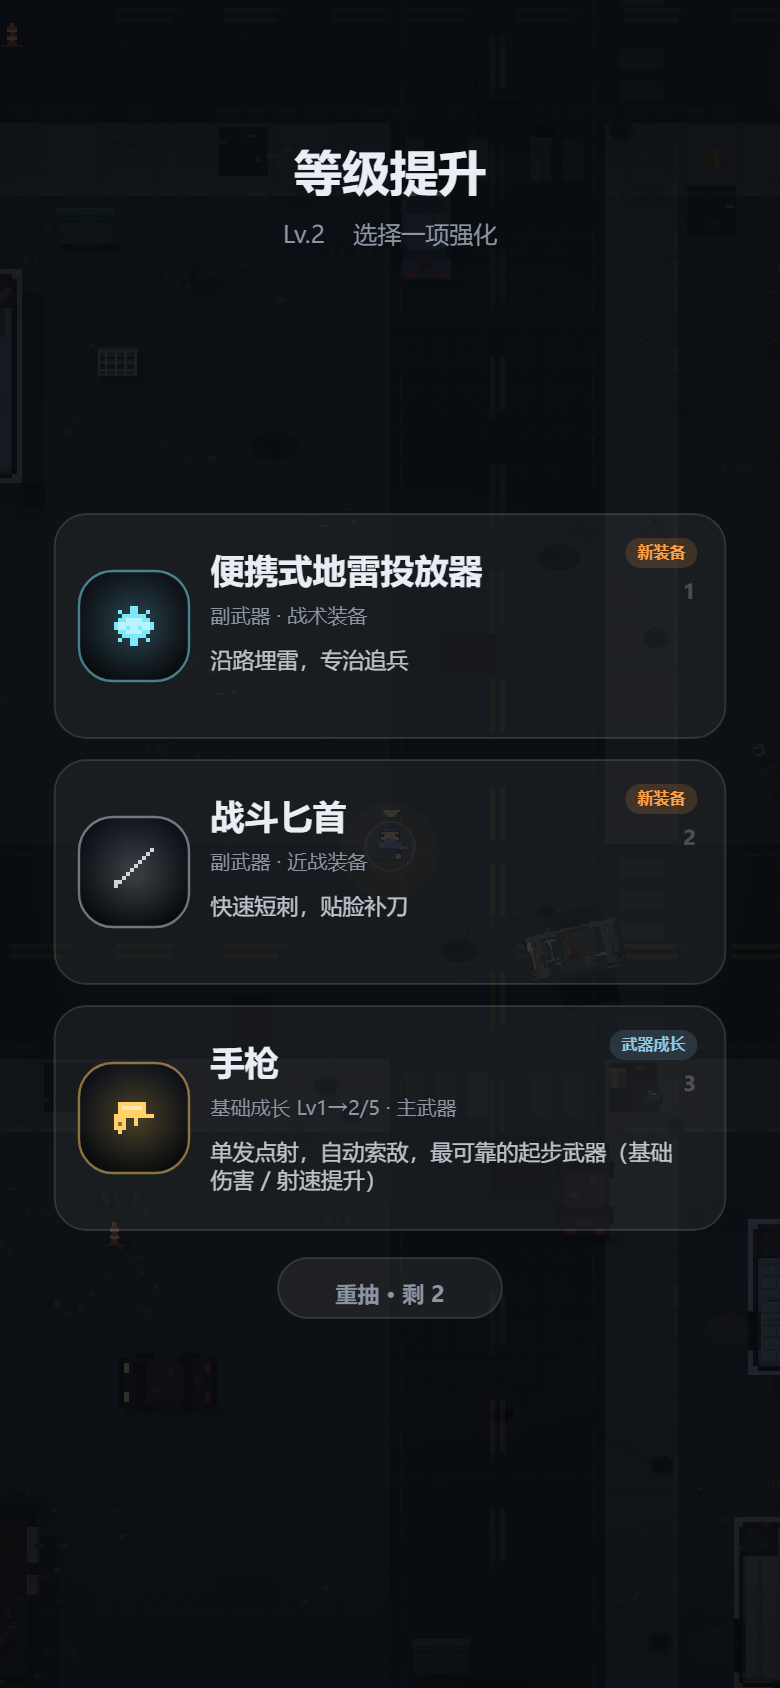
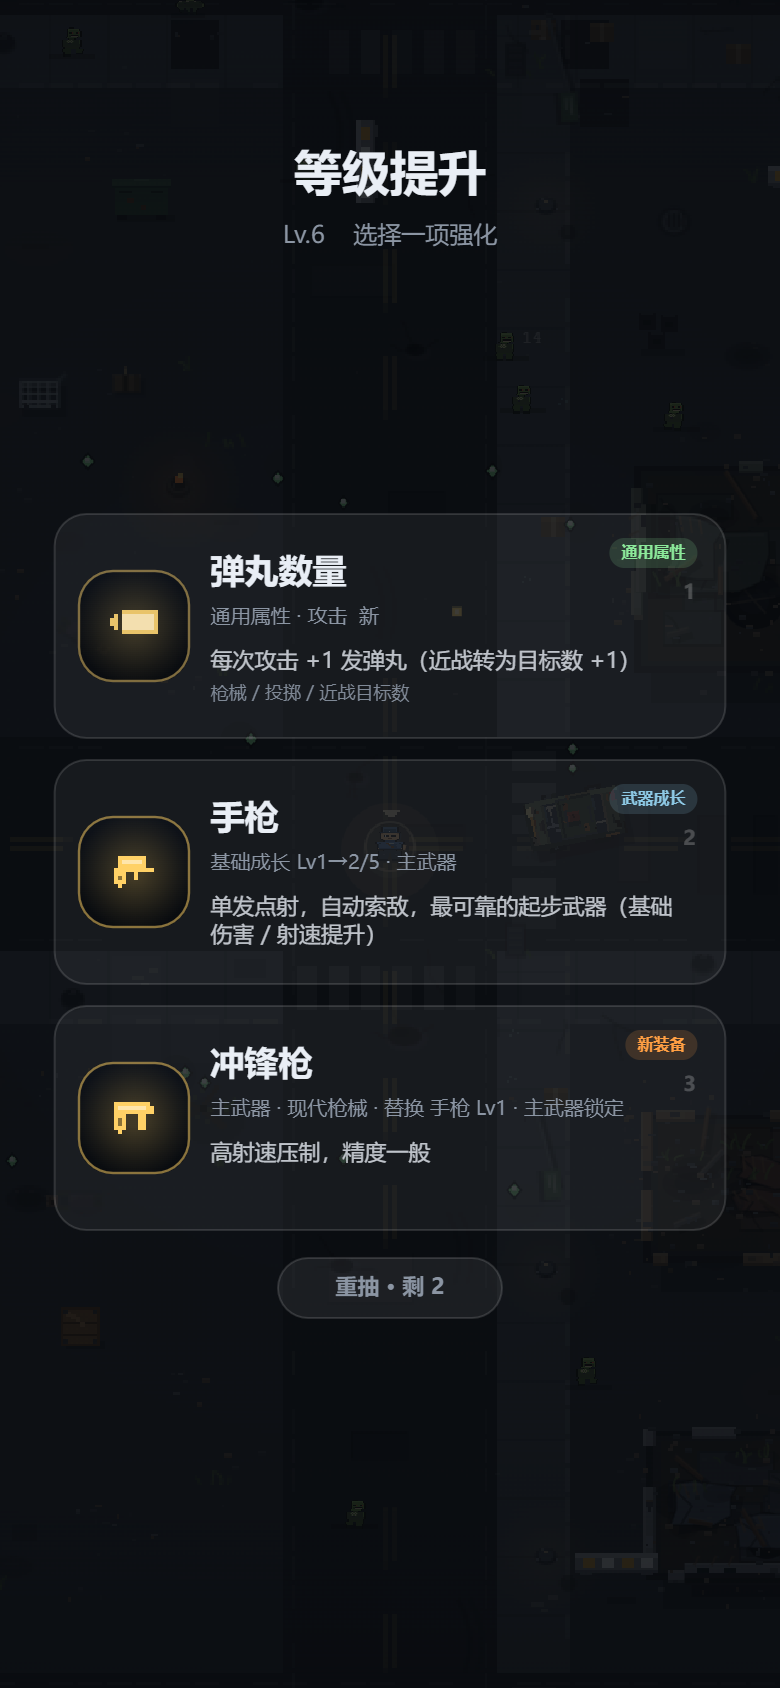
docs: 新增面向玩家的游戏介绍，补 tools/shots.js 截图工具
- docs/游戏介绍.md：核心循环、一局 6 分钟的节奏表、五个构筑系统、
  三张地图差异、局外成长与上手指引，配 9 张实机截图
- tools/shots.js：用 puppeteer-core + Edge 跑真实构建产物出图，
  替代之前手工截图；支持按名字只出某几张
- 重出 docs/screenshots 下的 title/mapselect/run/levelup/boss/result/night/desert/meta

diff --git a/tools/shots.js b/tools/shots.js
@@ -1,0 +1,205 @@
+/**
+ * 文档截图工具 —— 用真实浏览器（Edge / Chrome）跑构建好的单文件预览版，按状态出图。
+ * 用法: node tools/shots.js            # 全量出图到 docs/screenshots/
+ *       node tools/shots.js title boss # 只出指定几张
+ *
+ * 依赖 puppeteer-core（不装进项目，走全局 / 托管 workspace 的 node_modules）：
+ *   NODE_PATH=<...>/node_modules node tools/shots.js
+ * 这一步只用于产出文档图，和打包、运行时都无关。
+ *
+ * 为什么不复用 tools/smoke.js 的画布桩：那是逻辑桩，不栅格化像素，
+ * 出不了图。截图必须走真实 canvas 渲染。
+ */
+const fs = require('fs');
+const path = require('path');
+
+function loadPuppeteer() {
+  const tries = ['puppeteer-core', 'puppeteer'];
+  for (const m of tries) {
+    try { return require(m); } catch (e) { /* 继续找 */ }
+  }
+  console.error('找不到 puppeteer-core。请设置 NODE_PATH 指向含该包的 node_modules，');
+  console.error('例如: NODE_PATH=C:/Users/<你>/.workbuddy/binaries/node/workspace/node_modules');
+  process.exit(1);
+}
+
+const BROWSERS = [
+  'C:/Program Files/Google/Chrome/Application/chrome.exe',
+  'C:/Program Files (x86)/Google/Chrome/Application/chrome.exe',
+  'C:/Program Files (x86)/Microsoft/Edge/Application/msedge.exe',
+  'C:/Program Files/Microsoft/Edge/Application/msedge.exe'
+];
+
+const ROOT = path.resolve(__dirname, '..');
+const HTML = path.join(ROOT, 'dist', 'demo', 'index.html');
+const OUT = path.join(ROOT, 'docs', 'screenshots');
+const VIEW = { width: 390, height: 844, deviceScaleFactor: 2 };
+
+const sleep = ms => new Promise(r => setTimeout(r, ms));
+
+/* 全自动开局：把所有地图解锁，免得截图时还要先通关一次 */
+const unlockAll = `(function () {
+  HS.Save.data.unlockedMaps = ['highway', 'night', 'desert'];
+  HS.Save.data.gold = 460;
+  HS.Save.data.chars = HS.Save.data.chars || [];
+  return true;
+})()`;
+
+/* ---- 每个状态怎么摆 ---- */
+/* 站桩太久近身怪会被清空，画面很空；出图前往玩家周围补一圈，
+   settle 让它们走两步、武器开一枪再截。 */
+const surround = types => `(function () {
+  var G = HS.Game, r = G.run; if (!r) return 'no-run';
+  var p = r.p, kinds = ${JSON.stringify(types)};
+  for (var i = 0; i < 11; i++) {
+    var a = i * 0.571 + Math.random() * 0.35;
+    var d = 58 + Math.random() * 62;
+    G.spawnEnemy(kinds[i % kinds.length], i === 3, p.x + Math.cos(a) * d, p.y + Math.sin(a) * d);
+  }
+  return r.enemies.length + ' enemies';
+})()`;
+
+const STEPS = [
+  {
+    name: 'title',
+    desc: '标题页：主视觉 + 两个入口',
+    act: null,
+    wait: 900
+  },
+  {
+    name: 'mapselect',
+    desc: '选图页：三张地图按通关顺序解锁',
+    act: `HS.Game.activate('start')`,
+    wait: 500
+  },
+  {
+    name: 'run',
+    desc: '末世街区：局内，尸群围上来、主武器自动开火',
+    act: `HS.Game.startRun('highway', 'soldier')`,
+    wait: 6000,
+    fill: surround(['walker', 'walker', 'runner', 'brute', 'vomiter']),
+    settle: 1300
+  },
+  {
+    name: 'levelup',
+    desc: '升级三选一：卡面 + 底部重抽',
+    act: `HS.Game.gainXp(70)`,
+    wait: 700
+  },
+  {
+    name: 'boss',
+    desc: 'Boss 入场：顶部血条、精英杂兵、爆炸特效',
+    act: `(function () {
+      var G = HS.Game, guard = 0;
+      if (!G.run) G.startRun('highway', 'soldier');   // 单独出这一张时先开局
+      while (G.state === 'levelup' && guard++ < 20) {
+        G.pickChoice(0);
+        if (G.confirm) G.confirmSwap(true);
+      }
+      G.confirm = null;
+      G.state = 'run';
+      G.run.t = 352;
+      G.run.kills = 96;
+      G.spawnBoss();
+      var b = G.run.boss, p = G.run.p;
+      p.invuln = 90;                                // 截图期间别被 Boss 秒了
+      p.hp = p.maxHp;
+      if (b) { b.x = p.x - 8; b.y = p.y + 118; }   // 拉到镜头里，别让它在屏幕外走过来
+      return (b ? b.def.id : 'none') + ' / ' + G.state;
+    })()`,
+    wait: 3200,
+    fill: surround(['walker', 'runner', 'walker', 'brute']),
+    settle: 1100
+  },
+  {
+    name: 'result',
+    desc: '结算页：存活时间 / 击杀 / 等级 / 搜刮 + 通关奖励',
+    act: `(function () {
+      var G = HS.Game;
+      if (!G.run) G.startRun('highway', 'soldier');
+      G.run.t = 347;
+      G.run.kills = 612; G.run.eliteKills = 7; G.run.looted = 11; G.run.gold = 58;
+      G.run.p.level = 24;
+      G.run.bossKilled = true;
+      G.finishRun(true);
+      if (G.run.result) G.run.result.looted = 11;   // 让结算页的「搜刮处数」跟金币对得上
+      return G.state;
+    })()`,
+    wait: 900
+  },
+  {
+    name: 'night',
+    desc: '死区之夜：光照收窄、射程惩罚',
+    act: `HS.Game.startRun('night', 'soldier')`,
+    wait: 5000,
+    fill: surround(['walker', 'runner', 'vomiter', 'walker']),
+    settle: 1300
+  },
+  {
+    name: 'desert',
+    desc: '荒漠公路：直路 + 路边房屋 + 持枪匪徒',
+    act: `HS.Game.startRun('desert', 'hunter')`,
+    wait: 5000,
+    fill: surround(['terrorist', 'walker', 'terrorist', 'runner']),
+    settle: 1500
+  },
+  {
+    name: 'meta',
+    desc: '研究所：金币买永久强化、解锁角色',
+    act: `(function () {
+      HS.Game.state = 'title';
+      HS.Game.activate('meta');
+      HS.Game.tab = 'char';
+      return true;
+    })()`,
+    wait: 700
+  }
+];
+
+(async () => {
+  if (!fs.existsSync(HTML)) {
+    console.error('缺少 ' + HTML + '，先跑 node tools/build-browser.js');
+    process.exit(1);
+  }
+  const only = process.argv.slice(2);
+  const puppeteer = loadPuppeteer();
+  const exe = BROWSERS.find(p => fs.existsSync(p));
+  if (!exe) { console.error('找不到 Chrome / Edge'); process.exit(1); }
+
+  const browser = await puppeteer.launch({
+    executablePath: exe,
+    headless: 'new',
+    args: ['--allow-file-access-from-files', '--mute-audio',
+           '--autoplay-policy=no-user-gesture-required', '--hide-scrollbars']
+  });
+  const page = await browser.newPage();
+  await page.setViewport(VIEW);
+  page.on('pageerror', e => console.error('  [page error] ' + e.message));
+
+  await page.goto('file:///' + HTML.replace(/\\/g, '/'), { waitUntil: 'load' });
+  await page.waitForFunction('window.HS && HS.Game && HS.Game.state === "title"', { timeout: 15000 });
+  await page.evaluate(unlockAll);
+
+  if (!fs.existsSync(OUT)) fs.mkdirSync(OUT, { recursive: true });
+
+  for (const s of STEPS) {
+    if (only.length && only.indexOf(s.name) < 0) continue;
+    if (s.act) {
+      const r = await page.evaluate(s.act);
+      if (r !== true && r !== undefined && r !== null) console.log('    → ' + r);
+    }
+    await sleep(s.wait);
+    if (s.fill) {
+      const r = await page.evaluate(s.fill);
+      if (typeof r === 'string') console.log('    → ' + r);
+      await sleep(s.settle || 1200);
+    }
+    const file = path.join(OUT, s.name + '.png');
+    await page.screenshot({ path: file });
+    const kb = Math.round(fs.statSync(file).size / 1024);
+    console.log('  ✓ ' + s.name.padEnd(10) + ' ' + kb + ' KB  ' + s.desc);
+  }
+
+  await browser.close();
+  console.log('\n输出目录: ' + OUT);
+})().catch(e => { console.error(e); process.exit(1); });

diff --git a/docs/游戏介绍.md b/docs/游戏介绍.md
@@ -1,0 +1,168 @@
+# 公路幸存者：死区 —— 游戏介绍
+
+> **Highway Survivors: Dead Zone**
+> 竖屏像素肉鸽 · 一条堵死的高速公路 · 一局 6 分钟
+>
+> 试玩：https://juicesyo.github.io/highway-survivors-dead-zone/
+
+---
+
+## 一句话
+
+你是一个在末世公路上丢了队伍的老兵。往前是死区，往后是尸群，手里只有一把剩半个弹匣的旧手枪。
+**撑过 6 分钟、打掉从侧翼压上来的区域首领**，然后带着搜刮到的废料金币回研究所，把自己变得更强一点，再上路。
+
+这是一款**幸存者品类（Survivors-like）**的竖屏肉鸽：不用瞄准，武器全自动开火，
+你的全部注意力只需要花在两件事上 —— **往哪走**，和**这道升级选什么卡**。
+
+![标题页](screenshots/title.png)
+
+---
+
+## 核心循环
+
+```
+选角色 → 选地图 → 局内 6 分钟（走位 / 打怪 / 升级 / 搜刮 / 开上车）
+      → 6:00 首领登场 → 击杀通关（或死亡结算）
+      → 带金币回研究所买永久强化 / 解锁角色 → 下一局
+```
+
+每一局都是完整的一段，输了不白输：**局内搜刮到的金币会带走**，只是没有通关奖励。
+三张地图按通关顺序解锁（末世街区 → 死区之夜 → 荒漠公路），难度是硬门槛而不是数值微调。
+
+![选图](screenshots/mapselect.png)
+
+---
+
+## 一局 6 分钟是怎么走的
+
+| 时间 | 场上发生什么 | 你该做什么 |
+| --- | --- | --- |
+| 0:00 – 1:00 | 零散游荡者，主武器足够应付 | 边打边挪，把经验吃干净，尽快到 3 级 |
+| 1:00 – 3:00 | 刷怪速率按分钟线性抬升，疾行者开始穿插 | 补齐第二件武器，决定这局走哪个流派 |
+| 3:00 – 5:00 | 壮汉、呕酸尸混编，精英按固定节拍刷新 | 把主武器推到满级，准备进化 |
+| 5:30 | 空投补给 | 抢，通常是这局最后一件好东西 |
+| 6:00 | 区域首领从侧翼入场，血条挂到屏幕底部 | 一边绕一边输出，别站着换血 |
+
+中途升级会**暂停整个世界**弹三张卡；每局还有 **2 次重抽**，卡池变大之后的安全阀。
+
+![局内](screenshots/run.png)
+
+> 屏幕最底部那条青色细条是经验条，顶部是血条与击杀数，主武器会自动打最近的敌人。
+
+---
+
+## 五个核心系统
+
+### 1. 手持武器：主 / 副 / 重型，格子是硬约束
+
+- **主武器 1 格 + 副武器 1 格**，各持一把，自动索敌开火。
+- **重型武器独占两格** —— 换上它就没有副武器了，换来的是压倒性的火力。
+- 手持武器共 **72 件**（主 35 / 副 27 / 重 10），机制各异：手枪、霰弹、链锯、长矛突刺、
+  喷火、榴弹、电磁、光束……每件的成长曲线和专属升级分支都不一样。
+- **主武器每局只能换一次**。换过之后升级卡池里不再出现主武器，想换只能靠局内搜刮撞运气 ——
+  所以「开局这把要不要一直用到死」是个真实的决策。
+
+### 2. 进化与觉醒：满级不是终点
+
+武器推满级后会给出**进化卡**，变成同名但机制升级的终形态，共 **57 组**进化。
+进化之后还有 **Lv1→3 的「觉醒」**，所以满级进化不会让卡池突然变窄 ——
+构筑是持续往上长的，不会在 4 级时撞到天花板。
+
+### 3. 自动装备：不占手持槽的第二套系统
+
+**23 件**自动装备，按类型分：自动索敌、环绕、部署、区域、打击、辅助，同类有件数上限。
+它们不占手持格子，是构筑的「背景板」——环绕刀轮、自动炮台、地雷、光环，
+把你漏掉的怪补掉。它们也有自己的专属分支和满级终形态。
+
+### 4. 升级三选一：构筑的主战场
+
+![升级](screenshots/levelup.png)
+
+卡池有五类来源：**通用属性 / 武器专属 / 新装备 / 装备联动 / 进化**。
+几个刻意做过的取舍：
+
+- 槽位空着的时候，新装备的权重会明显抬高 —— 否则玩家永远长不出副武器。
+- 手持重型武器时**不会给副武器卡**（塞不进去，给了只会让人以为主武器被吞了）。
+- 副武器替换会弹确认框 —— 一次误点不该毁掉整局。
+
+通用属性 **23 条**（攻速、暴击、吸血、弹道数、范围、移速……），
+加上 **16 组装备联动**：凑齐特定组合会激活额外效果，这是「流派」成型的主要来源。
+
+### 5. 搜刮与载具：公路游戏得能开上车
+
+- **搜刮是金币的主要来源**：砸车壳、撬木箱、翻室内家具、上楼顶拿物资。搜刮要站桩 1.2~1.6 秒，
+  期间不能攻击，挨打或移动会打断 —— 每一次搜刮都是在拿安全换收益。
+- **载具**：路边有能开的破车。上车后武器全部收起，靠车头碾压开路 ——
+  一条血肉铺成的直线，但车有耐久，撞多了就报废，下车后车留在原地可以再回来。
+
+![荒漠](screenshots/desert.png)
+
+---
+
+## 三张地图，三种压力
+
+| 地图 | 场上特征 | 特殊规则 | 通关奖励 |
+| --- | --- | --- | --- |
+| **末世街区** | 白天街道、可进入的房屋、楼顶 | 基准难度 | 30 金 |
+| **死区之夜** | 同一条街，天黑了 | 光照只剩身边一圈，**射程 −32%** | 50 金 |
+| **荒漠公路** | 一条直路、路边零星房屋与汽车旅馆 | **持枪匪徒出没**，会用子弹打你 | 80 金 |
+
+![夜战](screenshots/night.png)
+
+夜里那圈光就是你的全部视野。手电照不出几步，枪也打不远 —— 同一张地图，玩法完全变了。
+
+---
+
+## 局外成长：研究所
+
+![研究所](screenshots/meta.png)
+
+- **金币只有两个来源**：局内搜刮，和**通关奖励**（30 / 50 / 80）。
+  击杀数、存活时长、精英击杀**都不折算金币** —— 金币要保持稀缺，通关才有实感。
+- 金币花在两处：**永久属性强化**（生命、伤害、移速……上限明确），和**解锁新角色**。
+- 4 名角色，定位完全不同：退役士兵（均衡，第一次上路就选他）、战地医生（续航）、
+  废土机械师（肉盾 + 机械）、拾荒者（高风险高伤害，只有 70 点生命）。
+
+---
+
+## 操作
+
+| 操作 | 说明 |
+| --- | --- |
+| 拖动屏幕任意位置 | 出现虚拟摇杆，控制走位 |
+| 「搜刮」 | 靠近车壳 / 木箱 / 家具 / 楼顶物资时出现 |
+| 「上楼」/「下楼」/「跳下」 | 楼梯与楼顶边缘 |
+| 「驾驶」/「下车」 | 上车后武器全收，靠碾压；下车把车留在原地 |
+| 升级三选一 | 点一张卡；底部可重抽 |
+
+**不需要瞄准**。所有武器自动索敌，你只管走位和选卡。
+
+---
+
+## 新手怎么上手（前三局）
+
+1. **第一局别急着贪金币**，先把「活到 6 分钟」当作目标，熟悉尸群的移动。
+2. **先补齐第二件武器**，再从升级卡里堆属性 —— 单武器堆属性的收益远不如两把武器一起打。
+3. **搜刮挑近的**。远处的车壳往往要穿过一整波尸群，性价比是负的。
+4. **6:00 首领出来之前留一点血**。首领阶段贴身两次就没了，绕圈比硬刚更划算。
+5. 通关末世街区 → 解锁死区之夜。夜里先把**射程**相关的东西堆起来，不然你打不到人。
+
+---
+
+## 技术侧（一句话版）
+
+微信小游戏 / H5 双端运行，**ES5 纯代码实现**：没有任何图片资源，精灵是字符点阵，
+音效是 WebAudio 实时合成，图集与 BGM 在 H5 版里全部内联成单个 HTML 文件（≈2MB，双击即玩）。
+包体约 1.7MB。
+
+---
+
+## 关于死亡
+
+![结算](screenshots/result.png)
+
+没有存档点，死了就结算。但**金币会带走**，等级、击杀、搜刮处数都会记在档案里。
+你会带着这一局学到的东西，和那点废料金币，回到研究所。
+
+然后再上路。

diff --git a/README.md b/README.md
@@ -17,6 +17,9 @@
 >
 > 也可以双击本地构建出的 `dist/highway-survivors.html`。这是由同一套源码构建的单文件预览版，
 > 图集与 BGM 全部内联，零依赖、不需要开发者工具。
+>
+> 想先看玩法再看代码 → **[游戏介绍（docs/游戏介绍.md）](docs/游戏介绍.md)**：核心循环、一局 6 分钟
+> 的节奏、五个构筑系统、三张地图的差异，配实机截图。
 
 | | |
 | --- | --- |
